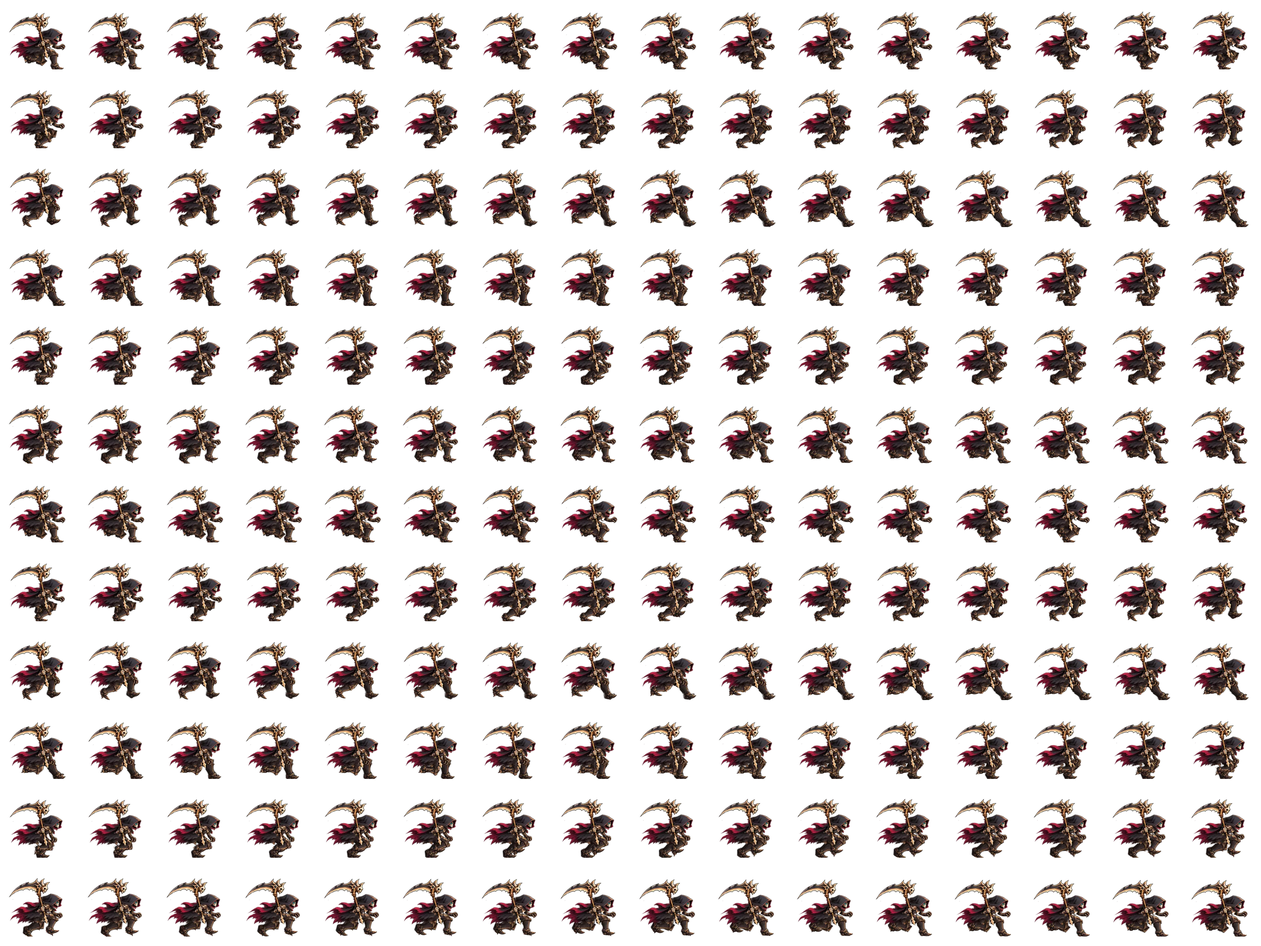
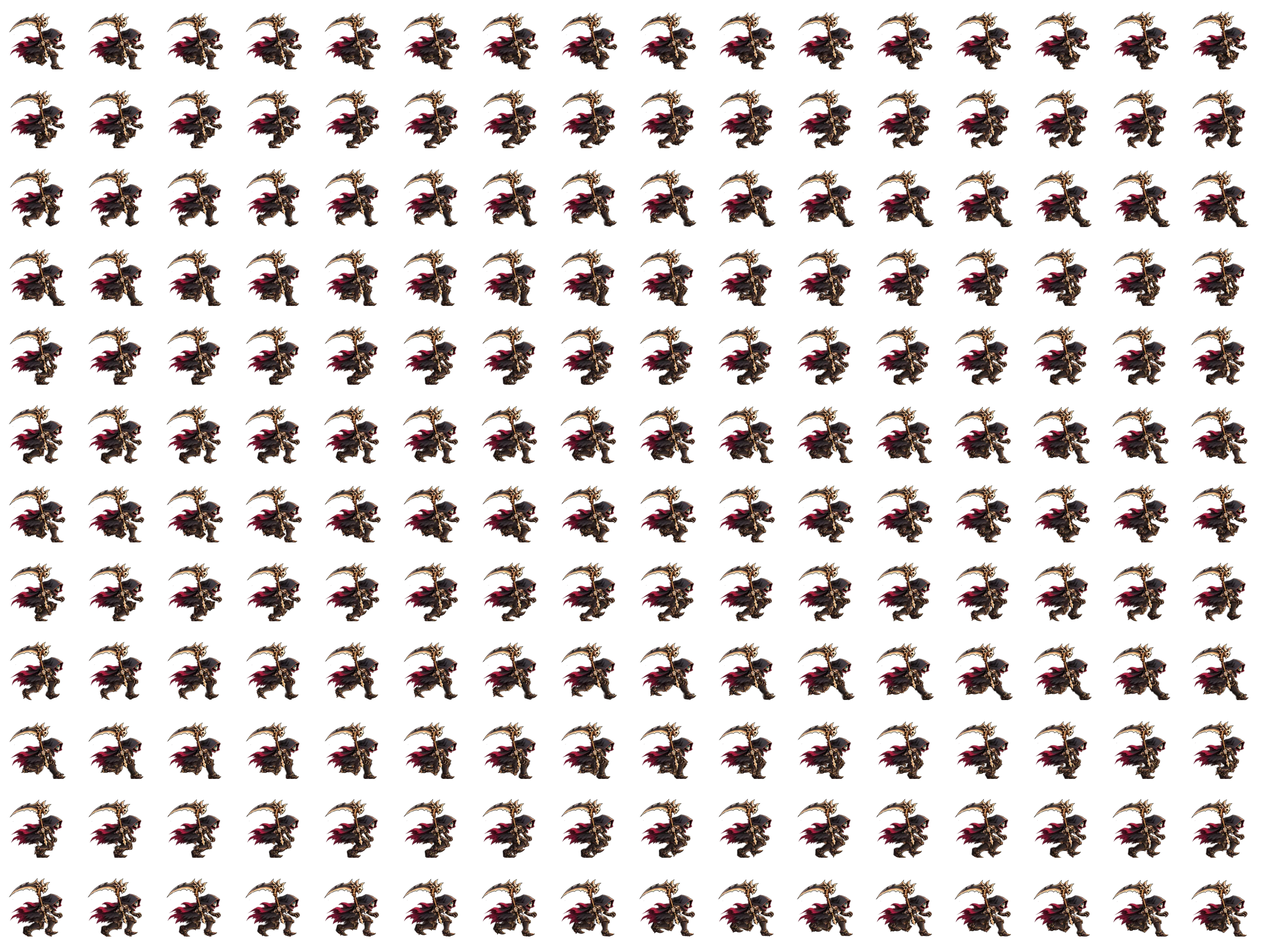
Refine Reaper run and vendor approach anatomy

diff --git a/assets/motion/v0200/animation-data.js b/assets/motion/v0200/animation-data.js
@@ -1,2 +1,2 @@
 /* Forward scythe visual poses. Combat authority stays in the original sweep. */
-window.GRIM_FORWARD_SCYTHE={"carry":{"key":"motion-reaper-forward-carry","url":"assets/motion/v0200/reaper-forward-carry.webp?v=1","width":200,"height":184,"columns":9,"frames":124,"anchor":[125.0,168.0]},"cut":{"key":"motion-reaper-forward-cut","url":"assets/motion/v0200/reaper-forward-cut.webp?v=1","width":200,"height":160,"columns":12,"frames":168,"anchor":[125.0,140.0]},"weapon":{"key":"motion-reaper-forward-scythe","url":"assets/motion/v0200/reaper-forward-scythe.webp?v=1","width":337,"height":361,"columns":1,"frames":1,"anchor":[177.0,297.0],"scale":0.2743125},"scale":0.8666666666666667,"ground":[[0,1,2,3,4,5,6,7,8,9,10,11],[15,16,17,18,19,20,21,22,23,24,25,26],[30,31,32,33,34,35,36,37,38,39,40,41],[45,46,47,48,49,50,51,52,53,54,55,56],[60],[62],[64],[66],[68],[70],[72],[74],[76],[78],[80],[82],[84],[86],[88],[90],[92],[94],[96],[98],[100],[102],[104],[106],[108,109,110,111,112,113,114,115,116,117,118,119],[123,124,125,126,127,128,129,130,131,132,133,134],[138,139,140,141,142,143,144,145,146,147,148,149],[153,154,155,156,157,158,159,160,161,162,163,164]],"air":[[12,13,14],[27,28,29],[42,43,44],[57,58,59],[61],[63],[65],[67],[69],[71],[73],[75],[77],[79],[81],[83],[85],[87],[89],[91],[93],[95],[97],[99],[101],[103],[105],[107],[120,121,122],[135,136,137],[150,151,152],[165,166,167]],"slideRise":[122,123],"grips":[[-17.471078,-54.327619,0.201909],[-16.88886,-54.943908,0.237626],[-16.367683,-57.197241,0.262609],[-16.047195,-58.834286,0.251876],[-16.013271,-58.217997,0.21616],[-16.275001,-55.964663,0.191176],[-16.762255,-54.327619,0.201909],[-17.344473,-54.943908,0.237626],[-17.865651,-57.197241,0.262609],[-18.186139,-58.834286,0.251876],[-18.220062,-58.217997,0.21616],[-17.958332,-55.964663,0.191176],[-18.0,-57.0,0.244346],[-22.0,-56.0,0.314159],[-21.0,-56.0,0.296706],[-16.742363,-55.218761,0.202942],[-16.20021,-55.79264,0.2362],[-15.714897,-57.890911,0.259465],[-15.416464,-59.415302,0.24947],[-15.384874,-58.841423,0.216211],[-15.628594,-56.743152,0.192947],[-16.082317,-55.218761,0.202942],[-16.62447,-55.79264,0.2362],[-17.109783,-57.890911,0.259465],[-17.408216,-59.415302,0.24947],[-17.439805,-58.841423,0.216211],[-17.196086,-56.743152,0.192947],[-17.234887,-57.707242,0.242458],[-20.959627,-56.776057,0.307467],[-20.028442,-56.776057,0.291215],[-13.84314,-58.435749,0.204966],[-13.402013,-58.902691,0.232027],[-13.007135,-60.609965,0.250956],[-12.764312,-61.850298,0.242824],[-12.738609,-61.383357,0.215763],[-12.936913,-59.676083,0.196834],[-13.306089,-58.435749,0.204966],[-13.747216,-58.902691,0.232027],[-14.142094,-60.609965,0.250956],[-14.384917,-61.850298,0.242824],[-14.41062,-61.383357,0.215763],[-14.212316,-59.676083,0.196834],[-14.243886,-60.460522,0.237119],[-17.274551,-59.702856,0.290014],[-16.516885,-59.702856,0.27679],[-7.706036,-64.835887,0.206612],[-7.39814,-65.1618,0.2255],[-7.122525,-66.353435,0.238712],[-6.95304,-67.219156,0.233036],[-6.9351,-66.893243,0.214148],[-7.073512,-65.701608,0.200936],[-7.331187,-64.835887,0.206612],[-7.639083,-65.1618,0.2255],[-7.914698,-66.353435,0.238712],[-8.084182,-67.219156,0.233036],[-8.102122,-66.893243,0.214148],[-7.963711,-65.701608,0.200936],[-7.985746,-66.249127,0.229054],[-10.101074,-65.720295,0.265974],[-9.572242,-65.720295,0.256744],[-0.792582,-71.617823,0.211199],[-0.948123,-72.403693,0.223678],[4.421519,-75.97616,0.226546],[4.36716,-76.250807,0.230908],[7.162168,-76.911226,0.269557],[7.15988,-76.922782,0.26974],[7.346584,-74.711321,0.342195],[7.346584,-74.711321,0.342195],[7.55999,-73.929064,0.422918],[7.55999,-73.929064,0.422918],[9.485805,-75.152836,0.475162],[9.485805,-75.152836,0.475162],[13.032236,-75.396861,0.518577],[13.032236,-75.396861,0.518577],[17.422026,-73.734522,0.559778],[17.422026,-73.734522,0.559778],[21.615047,-71.064963,0.603009],[21.615047,-71.064963,0.603009],[24.976975,-68.086548,0.650249],[24.976975,-68.086548,0.650249],[27.694246,-65.023743,0.699049],[27.694246,-65.023743,0.699049],[30.050782,-62.044721,0.746433],[30.050782,-62.044721,0.746433],[32.292331,-59.29596,0.790156],[32.292331,-59.29596,0.790156],[34.511951,-56.837139,0.830881],[34.511951,-56.837139,0.830881],[36.76453,-54.706239,0.870005],[36.76453,-54.706239,0.870005],[39.104227,-52.94073,0.908916],[39.104227,-52.94073,0.908916],[41.557,-51.558239,0.948838],[41.557,-51.558239,0.948838],[44.112174,-50.550617,0.990781],[44.112174,-50.550617,0.990781],[46.75639,-49.907454,1.035723],[46.75639,-49.907454,1.035723],[49.388339,-49.415429,1.079628],[49.388339,-49.415429,1.079628],[51.662194,-48.369683,1.105768],[51.662194,-48.369683,1.105768],[51.951361,-46.711076,1.08719],[51.946945,-46.733387,1.087544],[46.286951,-44.984991,0.981489],[46.228681,-45.2794,0.986164],[31.310313,-44.462875,0.78437],[31.154773,-45.248744,0.796849],[12.054396,-46.650025,0.555019],[12.355633,-46.96889,0.573499],[12.625289,-48.134756,0.586425],[12.791108,-48.981757,0.580872],[12.80866,-48.662891,0.562392],[12.673242,-47.497025,0.549466],[12.421138,-46.650025,0.555019],[12.119901,-46.96889,0.573499],[11.850246,-48.134756,0.586425],[11.684426,-48.981757,0.580872],[11.666874,-48.662891,0.562392],[11.802293,-47.497025,0.549466],[11.780734,-48.032704,0.576976],[9.711149,-47.515308,0.613097],[10.228545,-47.515308,0.604066],[-3.904588,-50.372188,0.365156],[-3.475215,-50.826688,0.391496],[-3.090857,-52.488474,0.409921],[-2.854504,-53.695759,0.402005],[-2.829486,-53.241259,0.375665],[-3.022507,-51.579474,0.35724],[-3.381846,-50.372188,0.365156],[-3.811219,-50.826688,0.391496],[-4.195577,-52.488474,0.409921],[-4.43193,-53.695759,0.402005],[-4.456948,-53.241259,0.375665],[-4.263927,-51.579474,0.35724],[-4.294657,-52.343012,0.396452],[-7.244572,-51.605534,0.447937],[-6.507093,-51.605534,0.435066],[-13.343043,-52.999371,0.251657],[-12.812261,-53.561214,0.284218],[-12.337127,-55.615477,0.306994],[-12.044952,-57.107897,0.297209],[-12.014026,-56.546054,0.264648],[-12.252633,-54.491791,0.241872],[-12.696841,-52.999371,0.251657],[-13.227623,-53.561214,0.284218],[-13.702757,-55.615477,0.306994],[-13.994932,-57.107897,0.297209],[-14.025858,-56.546054,0.264648],[-13.787251,-54.491791,0.241872],[-13.825237,-55.435661,0.290345],[-17.471858,-54.524006,0.35399],[-16.560203,-54.524006,0.338079],[-17.08131,-54.167649,0.206428],[-16.500686,-54.78225,0.242047],[-15.980936,-57.029413,0.266962],[-15.661326,-58.661974,0.256258],[-15.627495,-58.047373,0.22064],[-15.888508,-55.80021,0.195725],[-16.374428,-54.167649,0.206428],[-16.955052,-54.78225,0.242047],[-17.474802,-57.029413,0.266962],[-17.794412,-58.661974,0.256258],[-17.828243,-58.047373,0.22064],[-17.56723,-55.80021,0.195725],[-17.608783,-56.832712,0.248749],[-21.59783,-55.83545,0.318371],[-20.600568,-55.83545,0.300965]],"stepMs":8.333333333333334};
+window.GRIM_FORWARD_SCYTHE={"carry":{"key":"motion-reaper-forward-carry","url":"assets/motion/v0200/reaper-forward-carry.webp?v=28b2ac83f7fd","width":200,"height":184,"columns":9,"frames":124,"anchor":[125.0,168.0]},"cut":{"key":"motion-reaper-forward-cut","url":"assets/motion/v0200/reaper-forward-cut.webp?v=1","width":200,"height":160,"columns":12,"frames":168,"anchor":[125.0,140.0]},"weapon":{"key":"motion-reaper-forward-scythe","url":"assets/motion/v0200/reaper-forward-scythe.webp?v=1","width":337,"height":361,"columns":1,"frames":1,"anchor":[177.0,297.0],"scale":0.2743125},"scale":0.8666666666666667,"ground":[[0,1,2,3,4,5,6,7,8,9,10,11],[15,16,17,18,19,20,21,22,23,24,25,26],[30,31,32,33,34,35,36,37,38,39,40,41],[45,46,47,48,49,50,51,52,53,54,55,56],[60],[62],[64],[66],[68],[70],[72],[74],[76],[78],[80],[82],[84],[86],[88],[90],[92],[94],[96],[98],[100],[102],[104],[106],[108,109,110,111,112,113,114,115,116,117,118,119],[123,124,125,126,127,128,129,130,131,132,133,134],[138,139,140,141,142,143,144,145,146,147,148,149],[153,154,155,156,157,158,159,160,161,162,163,164]],"air":[[12,13,14],[27,28,29],[42,43,44],[57,58,59],[61],[63],[65],[67],[69],[71],[73],[75],[77],[79],[81],[83],[85],[87],[89],[91],[93],[95],[97],[99],[101],[103],[105],[107],[120,121,122],[135,136,137],[150,151,152],[165,166,167]],"slideRise":[122,123],"grips":[[-17.471078,-54.327619,0.201909],[-16.88886,-54.943908,0.237626],[-16.367683,-57.197241,0.262609],[-16.047195,-58.834286,0.251876],[-16.013271,-58.217997,0.21616],[-16.275001,-55.964663,0.191176],[-16.762255,-54.327619,0.201909],[-17.344473,-54.943908,0.237626],[-17.865651,-57.197241,0.262609],[-18.186139,-58.834286,0.251876],[-18.220062,-58.217997,0.21616],[-17.958332,-55.964663,0.191176],[-18.0,-57.0,0.244346],[-22.0,-56.0,0.314159],[-21.0,-56.0,0.296706],[-16.742363,-55.218761,0.202942],[-16.20021,-55.79264,0.2362],[-15.714897,-57.890911,0.259465],[-15.416464,-59.415302,0.24947],[-15.384874,-58.841423,0.216211],[-15.628594,-56.743152,0.192947],[-16.082317,-55.218761,0.202942],[-16.62447,-55.79264,0.2362],[-17.109783,-57.890911,0.259465],[-17.408216,-59.415302,0.24947],[-17.439805,-58.841423,0.216211],[-17.196086,-56.743152,0.192947],[-17.234887,-57.707242,0.242458],[-20.959627,-56.776057,0.307467],[-20.028442,-56.776057,0.291215],[-13.84314,-58.435749,0.204966],[-13.402013,-58.902691,0.232027],[-13.007135,-60.609965,0.250956],[-12.764312,-61.850298,0.242824],[-12.738609,-61.383357,0.215763],[-12.936913,-59.676083,0.196834],[-13.306089,-58.435749,0.204966],[-13.747216,-58.902691,0.232027],[-14.142094,-60.609965,0.250956],[-14.384917,-61.850298,0.242824],[-14.41062,-61.383357,0.215763],[-14.212316,-59.676083,0.196834],[-14.243886,-60.460522,0.237119],[-17.274551,-59.702856,0.290014],[-16.516885,-59.702856,0.27679],[-7.706036,-64.835887,0.206612],[-7.39814,-65.1618,0.2255],[-7.122525,-66.353435,0.238712],[-6.95304,-67.219156,0.233036],[-6.9351,-66.893243,0.214148],[-7.073512,-65.701608,0.200936],[-7.331187,-64.835887,0.206612],[-7.639083,-65.1618,0.2255],[-7.914698,-66.353435,0.238712],[-8.084182,-67.219156,0.233036],[-8.102122,-66.893243,0.214148],[-7.963711,-65.701608,0.200936],[-7.985746,-66.249127,0.229054],[-10.101074,-65.720295,0.265974],[-9.572242,-65.720295,0.256744],[-0.792582,-71.617823,0.211199],[-0.948123,-72.403693,0.223678],[4.421519,-75.97616,0.226546],[4.36716,-76.250807,0.230908],[7.162168,-76.911226,0.269557],[7.15988,-76.922782,0.26974],[7.346584,-74.711321,0.342195],[7.346584,-74.711321,0.342195],[7.55999,-73.929064,0.422918],[7.55999,-73.929064,0.422918],[9.485805,-75.152836,0.475162],[9.485805,-75.152836,0.475162],[13.032236,-75.396861,0.518577],[13.032236,-75.396861,0.518577],[17.422026,-73.734522,0.559778],[17.422026,-73.734522,0.559778],[21.615047,-71.064963,0.603009],[21.615047,-71.064963,0.603009],[24.976975,-68.086548,0.650249],[24.976975,-68.086548,0.650249],[27.694246,-65.023743,0.699049],[27.694246,-65.023743,0.699049],[30.050782,-62.044721,0.746433],[30.050782,-62.044721,0.746433],[32.292331,-59.29596,0.790156],[32.292331,-59.29596,0.790156],[34.511951,-56.837139,0.830881],[34.511951,-56.837139,0.830881],[36.76453,-54.706239,0.870005],[36.76453,-54.706239,0.870005],[39.104227,-52.94073,0.908916],[39.104227,-52.94073,0.908916],[41.557,-51.558239,0.948838],[41.557,-51.558239,0.948838],[44.112174,-50.550617,0.990781],[44.112174,-50.550617,0.990781],[46.75639,-49.907454,1.035723],[46.75639,-49.907454,1.035723],[49.388339,-49.415429,1.079628],[49.388339,-49.415429,1.079628],[51.662194,-48.369683,1.105768],[51.662194,-48.369683,1.105768],[51.951361,-46.711076,1.08719],[51.946945,-46.733387,1.087544],[46.286951,-44.984991,0.981489],[46.228681,-45.2794,0.986164],[31.310313,-44.462875,0.78437],[31.154773,-45.248744,0.796849],[12.054396,-46.650025,0.555019],[12.355633,-46.96889,0.573499],[12.625289,-48.134756,0.586425],[12.791108,-48.981757,0.580872],[12.80866,-48.662891,0.562392],[12.673242,-47.497025,0.549466],[12.421138,-46.650025,0.555019],[12.119901,-46.96889,0.573499],[11.850246,-48.134756,0.586425],[11.684426,-48.981757,0.580872],[11.666874,-48.662891,0.562392],[11.802293,-47.497025,0.549466],[11.780734,-48.032704,0.576976],[9.711149,-47.515308,0.613097],[10.228545,-47.515308,0.604066],[-3.904588,-50.372188,0.365156],[-3.475215,-50.826688,0.391496],[-3.090857,-52.488474,0.409921],[-2.854504,-53.695759,0.402005],[-2.829486,-53.241259,0.375665],[-3.022507,-51.579474,0.35724],[-3.381846,-50.372188,0.365156],[-3.811219,-50.826688,0.391496],[-4.195577,-52.488474,0.409921],[-4.43193,-53.695759,0.402005],[-4.456948,-53.241259,0.375665],[-4.263927,-51.579474,0.35724],[-4.294657,-52.343012,0.396452],[-7.244572,-51.605534,0.447937],[-6.507093,-51.605534,0.435066],[-13.343043,-52.999371,0.251657],[-12.812261,-53.561214,0.284218],[-12.337127,-55.615477,0.306994],[-12.044952,-57.107897,0.297209],[-12.014026,-56.546054,0.264648],[-12.252633,-54.491791,0.241872],[-12.696841,-52.999371,0.251657],[-13.227623,-53.561214,0.284218],[-13.702757,-55.615477,0.306994],[-13.994932,-57.107897,0.297209],[-14.025858,-56.546054,0.264648],[-13.787251,-54.491791,0.241872],[-13.825237,-55.435661,0.290345],[-17.471858,-54.524006,0.35399],[-16.560203,-54.524006,0.338079],[-17.08131,-54.167649,0.206428],[-16.500686,-54.78225,0.242047],[-15.980936,-57.029413,0.266962],[-15.661326,-58.661974,0.256258],[-15.627495,-58.047373,0.22064],[-15.888508,-55.80021,0.195725],[-16.374428,-54.167649,0.206428],[-16.955052,-54.78225,0.242047],[-17.474802,-57.029413,0.266962],[-17.794412,-58.661974,0.256258],[-17.828243,-58.047373,0.22064],[-17.56723,-55.80021,0.195725],[-17.608783,-56.832712,0.248749],[-21.59783,-55.83545,0.318371],[-20.600568,-55.83545,0.300965]],"stepMs":8.333333333333334};

diff --git a/index.html b/index.html
@@ -1642,8 +1642,8 @@ window.GRIM_CONFIG = Object.freeze({
   <script src="assets/visuals/biome-midground.js?v=2"></script>
   <script src="assets/motion/v0180/animation-data.js?v=0.19.10-cut2"></script>
   <script src="assets/motion/v0194/animation-data.js?v=3"></script>
-  <script src="assets/motion/v0200/animation-data.js?v=1"></script>
-  <script src="assets/visuals/motion-animations.js?v=0.20.0-forward"></script>
+  <script src="assets/motion/v0200/animation-data.js?v=2"></script>
+  <script src="assets/visuals/motion-animations.js?v=0.20.0-run-anatomy"></script>
   <script src="assets/visuals/actor-transition-textures.js?v=0.19.12"></script>
   <script src="assets/visuals/slide-animations.js?v=0.20.0-forward"></script>
   <script src="assets/combat/v0170/animation-data.js?v=0.19.3"></script>
@@ -1657,7 +1657,7 @@ window.GRIM_CONFIG = Object.freeze({
   <script src="assets/visuals/obstacle-mounts.js?v=2"></script>
   <script src="assets/encounters/v0190/animation-data.js?v=0.19.3"></script>
   <script src="assets/cutscenes/v0197/animation-data.js?v=0.19.12"></script>
-  <script src="assets/visuals/cutscene-motion.js?v=0.19.12"></script>
+  <script src="assets/visuals/cutscene-motion.js?v=0.19.12-greave"></script>
   <script src="assets/visuals/power-animations.js?v=0.19.13-air"></script>
   <script src="assets/visuals/bone-bridges.js?v=1"></script>
   <script src="assets/visuals/revision-art.js?v=0.15.1"></script>

diff --git a/assets/visuals/motion-animations.js b/assets/visuals/motion-animations.js
@@ -195,7 +195,7 @@
     if(DATA.visualCutWeapon)s.load.image('motion-cut-scythe',ROOT+'reaper-cut-scythe.png?v=1');
     if(CUT_HANDOFF)s.load.spritesheet(CUT_HANDOFF_KEY,ROOT+'reaper-cut-handoffs.webp?v=2',
       {frameWidth:CUT_HANDOFF.cell,frameHeight:CUT_HANDOFF.cell,endFrame:CUT_HANDOFF.poses.length-1});
-    if(RUN)s.load.spritesheet('motion-reaper-run-solid','assets/motion/v0194/reaper-run.webp?v=4',
+    if(RUN)s.load.spritesheet('motion-reaper-run-solid','assets/motion/v0194/reaper-run.webp?v=5',
       {frameWidth:RUN.cell,frameHeight:RUN.cell,endFrame:RUN.frames-1});
   }
   function queueAirDetails(s){

diff --git a/assets/visuals/cutscene-motion.js b/assets/visuals/cutscene-motion.js
@@ -9,7 +9,7 @@
   function preload(s){
     for(const [key,file,cell,count] of [['cutscene-bow','reaper-bow.png',CELL,BOW_FRAMES],
       ['cutscene-vendor','reaper-vendor.webp',CELL,VENDOR_FRAMES],['cutscene-hands','bow-hands.png',64,BOW_FRAMES]])
-      s.load.spritesheet(key,ROOT+file+(key==='cutscene-vendor'?'?v=0.19.12':'?v=0.19.11'),
+      s.load.spritesheet(key,ROOT+file+(key==='cutscene-vendor'?'?v=0.19.12-greave':'?v=0.19.11'),
         {frameWidth:cell,frameHeight:cell,endFrame:count-1});
   }
   function relicMotionAt(t){

diff --git a/scripts/prepare-cutscene-art.py b/scripts/prepare-cutscene-art.py
@@ -7,11 +7,12 @@ from pathlib import Path
 import argparse
 import json
 import hashlib
+from io import BytesIO
 import cv2
 import numpy as np
 from PIL import Image
 from scipy.ndimage import label, distance_transform_edt
-from cutscene_walk_rig import make_walk
+from cutscene_walk_rig import make_walk, near_greave_amount
 from bow_rig import build as build_bow
 
 ROOT = Path(__file__).resolve().parents[1]
@@ -66,7 +67,48 @@ def register(name):
         records[i] = {'pose': i, 'foot': foot, 'sourceBounds': bounds}
     return poses, hands, records
 
-def build(kind):
+def webp_chunks(payload):
+    assert payload[:4] == b'RIFF' and payload[8:12] == b'WEBP'
+    offset = 12
+    while offset < len(payload):
+        size = int.from_bytes(payload[offset + 4:offset + 8], 'little')
+        end = offset + 8 + size + size % 2
+        yield payload[offset:offset + 4], payload[offset:end]
+        offset = end
+    assert offset == len(payload)
+
+
+def narrow_vendor_contour(path, sheet, frames):
+    """Preserve the released VP8 color and narrow only the approved contours."""
+    released = path.read_bytes()
+    with Image.open(BytesIO(released)) as image:
+        assert image.size == sheet.size
+        alpha = image.getchannel('A')
+    target = sheet.getchannel('A')
+    for frame in range(frames):
+        if not near_greave_amount(frame):
+            continue
+        x, y = frame % COLS * CELL, frame // COLS * CELL
+        box = (x, y, x + CELL, y + CELL)
+        inset = np.minimum(np.asarray(alpha.crop(box)), np.asarray(target.crop(box)))
+        alpha.paste(Image.fromarray(inset), (x, y))
+    mask = Image.new('RGBA', sheet.size)
+    mask.putalpha(alpha)
+    encoded = BytesIO()
+    mask.save(encoded, format='WEBP', quality=92, alpha_quality=100, method=6)
+    alpha_chunk = dict(webp_chunks(encoded.getvalue()))[b'ALPH']
+    body = b'WEBP' + b''.join(alpha_chunk if key == b'ALPH' else chunk
+                             for key, chunk in webp_chunks(released))
+    payload = b'RIFF' + len(body).to_bytes(4, 'little') + body
+    with Image.open(BytesIO(payload)) as image:
+        assert np.array_equal(np.asarray(image.getchannel('A')), np.asarray(alpha))
+    path.write_bytes(payload)
+    return [alpha.crop((i % COLS * CELL, i // COLS * CELL,
+                       (i % COLS + 1) * CELL, (i // COLS + 1) * CELL)).getbbox()
+            for i in range(frames)]
+
+
+def build(kind, *, preserve_vendor_color=False):
     name = 'reaper-' + kind + '-keyposes.png'
     poses, hands, registration = register(name)
     frames, grips = [], []
@@ -105,6 +147,8 @@ def build(kind):
     file = OUT / ('reaper-bow.png' if kind == 'bow' else 'reaper-vendor.webp')
     if kind == 'bow':
         sheet.save(file, optimize=True)
+    elif preserve_vendor_color:
+        bounds = narrow_vendor_contour(file, sheet, len(frames))
     else:
         sheet.save(file, quality=92, alpha_quality=100, method=6)
     meta = {**digest(file), 'size': sheet.size, 'frames': len(frames), 'cell': [CELL,CELL], 'anchor': ANCHOR.tolist(), 'bounds': bounds}
@@ -139,7 +183,7 @@ def main():
         vendor_data=prior_data['vendor']
         assert digest(OUT/'reaper-vendor.webp')['sha256']==vendor['sha256']
     else:
-        vendor, _, vendor_data = build('vendor')
+        vendor, _, vendor_data = build('vendor', preserve_vendor_color=args.vendor_only)
     manifest = {'version':'0.19.11', 'sources': {p.name:digest(p) for p in (OUT/'source').glob('*.png')},
                 'runtime': {'reaper-bow.png':bow, 'reaper-vendor.webp':vendor, 'bow-hands.png':overlay}}
     (OUT/'manifest.json').write_text(json.dumps(manifest, indent=2)+'\n')

diff --git a/scripts/prepare-planted-run.py b/scripts/prepare-planted-run.py
@@ -166,6 +166,39 @@ def foot(q):
     return point(x, 167.2 - lift), pitch, False
 
 
+def run_swing(frame, far, sole):
+    """Lower the late swing while leaving the contact and recovery paths intact."""
+    start, full_in, full_out, end = (16, 27, 32, 40) if far else (68, 79, 85, 91)
+    weight = ease((frame - start) / (full_in - start)) * ease((end - frame) / (end - full_out))
+    return sole + weight * point(-2.4, 3.6)
+
+
+def taper_plate(paint, start, end, amount):
+    """Narrow a donor across its axis while leaving both painted sockets full."""
+    y, x = np.indices((paint.height, paint.width), dtype=np.float32)
+    delta = end - start
+    along = ((x - start[0]) * delta[0] + (y - start[1]) * delta[1]) / (delta @ delta)
+    fade = np.clip(along / .28, 0, 1) * np.clip((1 - along) / .28, 0, 1)
+    fade = fade**2 * (3 - 2 * fade)
+    axis_x, axis_y = start[0] + along * delta[0], start[1] + along * delta[1]
+    width = 1 - amount * fade
+    coords = [axis_y + (y - axis_y) / width, axis_x + (x - axis_x) / width]
+    source = np.asarray(paint, dtype=np.float32) / 255
+    source[:, :, :3] *= source[:, :, 3:]
+    sample = np.stack([map_coordinates(channel, coords, order=1) for channel in source.transpose(2, 0, 1)], axis=-1)
+    sample[:, :, :3] /= np.maximum(sample[:, :, 3:], 1 / 255)
+    return Image.fromarray(np.uint8(np.clip(sample * 255 + .5, 0, 255)))
+
+
+def run_plates(plates):
+    (hip, knee, ankle), thigh, greave, boot, heel, ball = plates
+    return ((hip, knee, ankle), taper_plate(thigh, hip, knee, .06),
+            taper_plate(greave, knee, ankle, .12), boot, heel, ball)
+
+
+RUN_FAR, RUN_NEAR = run_plates(FAR), run_plates(NEAR)
+
+
 def ankle_trim(phase, far):
     """Taper the cuff correction in and out around the bulky swing poses."""
     frame = phase * (FRAMES // GAITS)
@@ -228,7 +261,7 @@ def draw_leg(out, plates, hip, sole, pitch, planted, far, cuff_trim=0):
     return None
 
 
-def draw(frame, with_weapon=True):
+def draw(frame, with_weapon=True, *, run_anatomy=False):
     cycle = FRAMES // GAITS
     q = (frame % cycle) / cycle
     beat = 2 * math.pi * q
@@ -236,10 +269,13 @@ def draw(frame, with_weapon=True):
                    2.6 * math.cos(2 * beat) + .68 * math.sin(2 * beat))
     out = Image.new('RGBA', (CELL * SUPERSAMPLE,) * 2)
     support = None
-    for far, phase, plates in ((True, (q + .5) % 1, FAR), (False, q, NEAR)):
+    far_plates, near_plates = (RUN_FAR, RUN_NEAR) if run_anatomy else (FAR, NEAR)
+    for far, phase, plates in ((True, (q + .5) % 1, far_plates), (False, q, near_plates)):
         hip = point(102 if far else 105, 117 if far else 118) + offset
-        foot_pose = foot(phase)
-        contact = draw_leg(out, plates, hip, *foot_pose, far, ankle_trim(q, far))
+        sole, pitch, planted = foot(phase)
+        if run_anatomy and not planted:
+            sole = run_swing(frame % cycle, far, sole)
+        contact = draw_leg(out, plates, hip, sole, pitch, planted, far, ankle_trim(q, far))
         if contact:
             support = contact
 
@@ -270,7 +306,7 @@ def build():
     support = []
     bounds = []
     for i in range(FRAMES):
-        tile,plant = draw(i)
+        tile,plant = draw(i, run_anatomy=True)
         bounds.append(tile.getchannel('A').point(lambda p:255 if p>64 else 0).getbbox())
         out.paste(tile,(i%COLUMNS*CELL,i//COLUMNS*CELL))
         support.append(plant)

diff --git a/scripts/prepare-forward-scythe.py b/scripts/prepare-forward-scythe.py
@@ -1,5 +1,6 @@
 """Bake the forward RUN, ordinary air, and phase-registered upright Cut family."""
 
+import argparse
 import hashlib
 import importlib.util
 import json
@@ -92,6 +93,59 @@ def forward_slide_rise(body, pose):
         (body.R.SCALE,0,x,0,body.R.SCALE,y), resample=Image.Resampling.BICUBIC)
 
 
+def bake_run():
+    """Replace only the RUN cels in the released carry layout."""
+    data_path = ART / 'animation-data.js'
+    text = data_path.read_text()
+    header, _, assignment = text.partition('window.GRIM_FORWARD_SCYTHE=')
+    data = json.loads(assignment.strip().rstrip(';'))
+    carry = data['carry']
+    width, height, columns = carry['width'], carry['height'], carry['columns']
+    assert data['slideRise'] == [122, 123] and carry['frames'] == 124
+
+    manifest_path = ART / 'manifest.json'
+    manifest = json.loads(manifest_path.read_text())
+    path = ART / 'reaper-forward-carry.webp'
+    assert manifest['carry']['sha256'] == hashlib.sha256(path.read_bytes()).hexdigest()
+    with Image.open(path) as decoded:
+        released = decoded.convert('RGBA')
+    sheet = released.copy()
+    assert sheet.size == (width * columns, height * math.ceil(carry['frames'] / columns))
+
+    with tempfile.TemporaryDirectory(prefix='grim-forward-run-') as temp:
+        os.environ['GRIM_FORWARD_BAKE'] = temp
+        import weapon
+        import body
+
+        left, top = (int(a - b) for a, b in zip(body.ANCHOR, carry['anchor']))
+        box = (left, top, left + width, top + height)
+        for index in range(96):
+            x, y = index % columns * width, index // columns * height
+            tile = body.carried(index, run_anatomy=True)
+            bounds = tile.getbbox()
+            assert left <= bounds[0] and top <= bounds[1]
+            assert bounds[2] <= box[2] and bounds[3] <= box[3]
+            edited = tile.crop(box)
+            original = body.carried(index).crop(box)
+            changed = np.any(np.asarray(edited) != np.asarray(original), axis=-1)
+            sheet.paste(edited, (x, y), Image.fromarray(changed))
+
+        pending = Path(temp) / path.name
+        sheet.save(pending, lossless=True, quality=100, method=6, exact=True)
+        with Image.open(pending) as decoded:
+            assert np.array_equal(np.asarray(sheet), np.asarray(decoded.convert('RGBA')))
+        payload = pending.read_bytes()
+
+    digest = hashlib.sha256(payload).hexdigest()
+    carry['url'] = carry['url'].partition('?')[0] + '?v=' + digest[:12]
+    manifest['carry'].update(bytes=len(payload), sha256=digest)
+    path.write_bytes(payload)
+    data_path.write_text(header + 'window.GRIM_FORWARD_SCYTHE=' +
+                         json.dumps(data, separators=(',', ':')) + ';\n')
+    manifest_path.write_text(json.dumps(manifest, indent=2) + '\n')
+    print(f'{path.name}: {len(payload):,} bytes, exact protected cels 96–123', flush=True)
+
+
 def bake():
     with tempfile.TemporaryDirectory(prefix='grim-forward-bake-') as temp:
         os.environ['GRIM_FORWARD_BAKE'] = temp
@@ -149,4 +203,10 @@ def bake():
 
 
 if __name__ == '__main__':
-    bake()
+    parser = argparse.ArgumentParser()
+    parser.add_argument('--run-only', action='store_true',
+                        help='Replace RUN in the carry pack and retain the released air, Slide, and Cut')
+    if parser.parse_args().run_only:
+        bake_run()
+    else:
+        bake()

diff --git a/scripts/cutscene_walk_rig.py b/scripts/cutscene_walk_rig.py
@@ -47,6 +47,30 @@ def segment(paint, a, b, start, end):
     return warp(paint, matrix, start - matrix @ a)
 
 
+def near_greave_amount(frame):
+    return .10 * max(
+        ease((frame - start) / (full_in - start)) *
+        ease((end - frame) / (end - full_out))
+        for start, full_in, full_out, end in (
+            (8, 14, 18, 25), (65, 72, 79, 86), (106, 113, 123, 130))
+    )
+
+
+def near_greave(paint, knee, ankle, frame):
+    """Soften the broad front plate only as the two legs pass."""
+    amount = near_greave_amount(frame)
+    if not amount:
+        return paint
+    y, x = np.indices(paint.shape[:2], dtype=np.float32)
+    dx, dy = ankle - knee
+    along = ((x - knee[0]) * dx + (y - knee[1]) * dy) / (dx**2 + dy**2)
+    fade = np.clip(along / .3, 0, 1) * np.clip((1 - along) / .3, 0, 1)
+    width = 1 - amount * fade**2 * (3 - 2 * fade)
+    axis_x, axis_y = knee[0] + along * dx, knee[1] + along * dy
+    return cv2.remap(paint, (axis_x + (x - axis_x) / width).astype(np.float32),
+                     (axis_y + (y - axis_y) / width).astype(np.float32), cv2.INTER_LINEAR)
+
+
 def leather_joins(hip, knee, ankle):
     """Repaint the undersuit exposed when the gold plates change angle."""
     leg = Image.new('RGBA', (CELL*2, CELL*2))
@@ -199,7 +223,8 @@ def make_walk(base):
             knee = hip + unit * along + np.array([unit[1], -unit[0]]) * bend
             leg = leather_joins(hip, knee, ankle)
             leg.alpha_composite(segment(paints[0], old_hip, old_knee, hip, knee))
-            leg.alpha_composite(segment(paints[1], old_knee, old_ankle, knee, ankle))
+            shin_paint = near_greave(paints[1], old_knee, old_ankle, i) if j else paints[1]
+            leg.alpha_composite(segment(shin_paint, old_knee, old_ankle, knee, ankle))
             leg.alpha_composite(warp(paints[2], shoe, shift))
             if j == 0:
                 pixels = np.array(leg)

diff --git a/scripts/forward-scythe/body.py b/scripts/forward-scythe/body.py
@@ -194,7 +194,7 @@ def action(age,scene,row):
     invariant=bool(np.array_equal(np.array(out)[toe_rows:168],np.array(ready)[toe_rows:168]))
     assert invariant
     return out,[*P.tolist(),angle]
-def carried(f):
+def carried(f, *, run_anatomy=False):
     target=R.point(87,107)
     original=R.weapon
     try:
@@ -206,7 +206,7 @@ def carried(f):
         m=target-M@PIV
         R.weapon=weapon.transform((R.CELL,R.CELL),Image.Transform.AFFINE,np.c_[inv,-inv@m].ravel(),
                                    Image.Resampling.BICUBIC)
-        change=R.draw(f)[0]
+        change=R.draw(f, run_anatomy=run_anatomy)[0]
     finally:R.weapon=original
     dst=Image.new('RGBA',(W,H));dst.paste(change,tuple(anchor_delta))
     return dst
